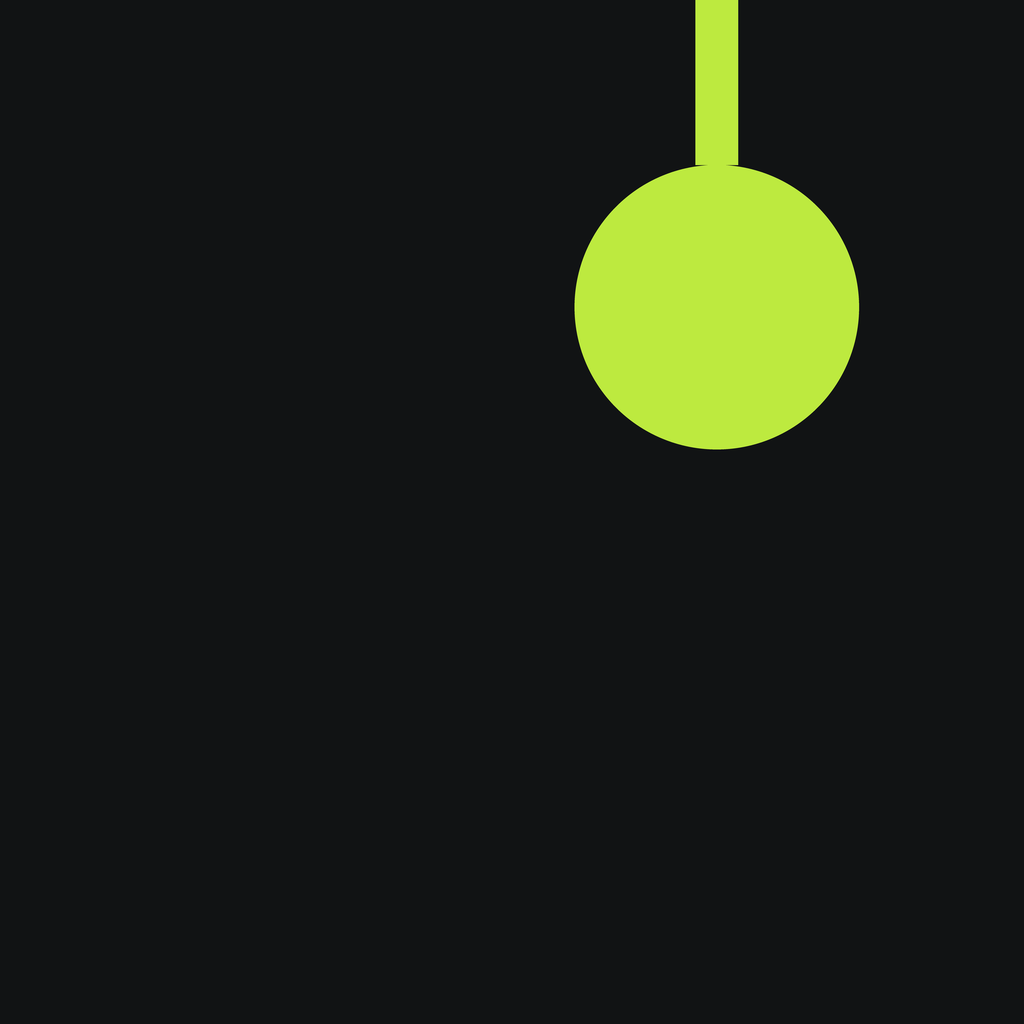
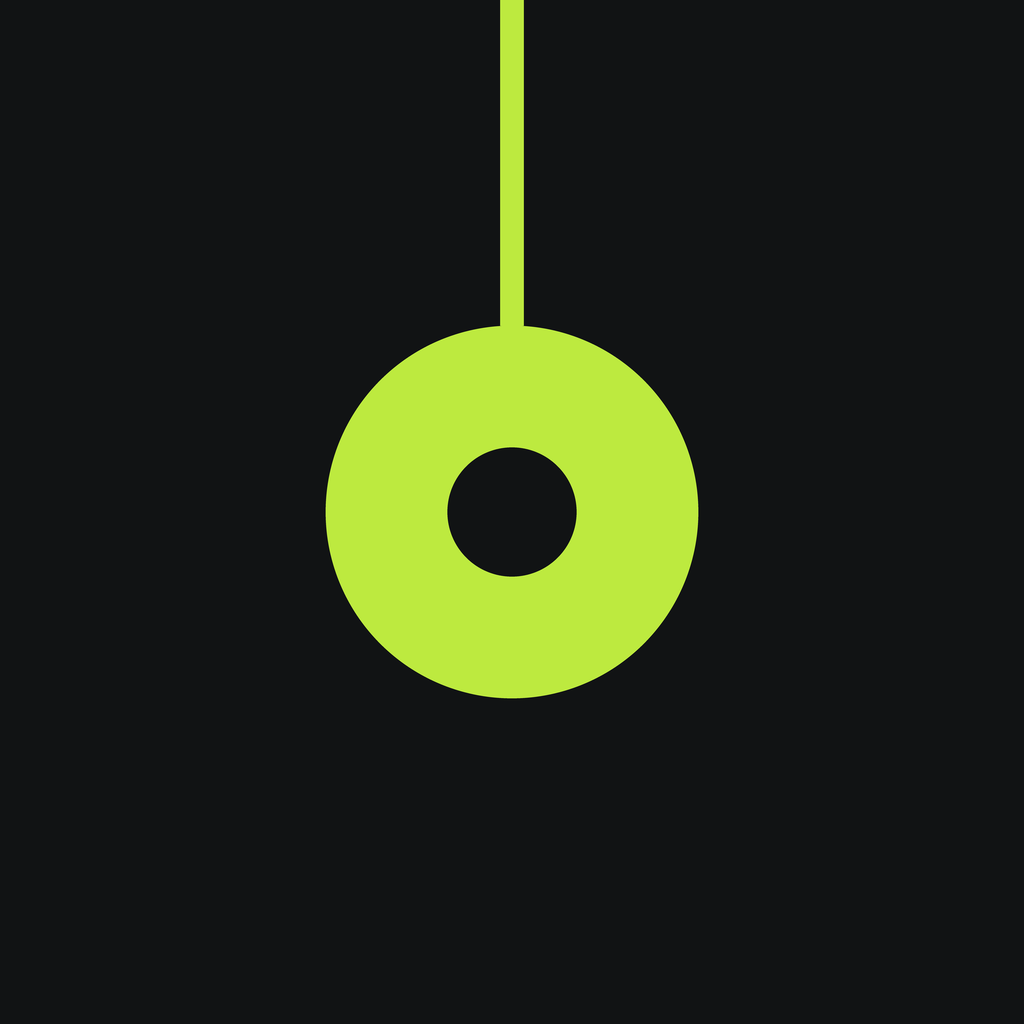
Replace the dot mark with a centered ring (bead on a string)
- App icon and website's .brand-mark now show a lime ring with a hole,
  centered in the box, instead of the off-center solid dot
- Tray icon's punched-hole notch resized/recentered to match the new ring
- Rebuilt all five installers (mac dmg/zip x2 arch, win exe) with the new icon

Changed region(s): [[0.3125, 0.0, 0.8438, 0.6875]]

diff --git a/website/site.css b/website/site.css
@@ -159,17 +159,19 @@ a:focus-visible, button:focus-visible {
   width: 36px;
   height: 36px;
   border-radius: 11px;
-  background: var(--ink) radial-gradient(circle at 70% 30%, var(--lime) 0 5px, transparent 5.5px);
+  /* A ring (a bead with a hole), not a solid dot — the inner ink circle punches the hole back
+     out of the lime ring. */
+  background: var(--ink) radial-gradient(circle at 50% 50%, var(--ink) 0 2.3px, var(--lime) 2.3px 6.5px, transparent 6.5px);
 }
 /* The charm-on-a-string motif at logo scale: a short lime line from the top edge down to the
-   dot's own top edge (30% - 5px), so it never runs under/past the dot itself. */
+   ring's own top edge (50% - 6.5px), so it never runs under/past the ring itself. */
 .brand-mark::before {
   content: '';
   position: absolute;
-  left: 70%;
+  left: 50%;
   top: 0;
-  width: 1.5px;
-  height: calc(30% - 5px);
+  width: 1px;
+  height: calc(50% - 6.5px);
   background: var(--lime);
   transform: translateX(-50%);
 }

diff --git a/website/index.html b/website/index.html
@@ -9,7 +9,7 @@
   <link rel="stylesheet" href="engine/overlay.css" />
   <!-- ?v= is a manual cache-buster: bump it (any change works, e.g. the date) whenever site.css
        changes, so a browser — or host — that cached the old file has to fetch the new one. -->
-  <link rel="stylesheet" href="site.css?v=19" />
+  <link rel="stylesheet" href="site.css?v=20" />
   <script>
     // Runs before first paint (inline, in <head>) so the page never flashes the wrong mode —
     // by the time site.css's [data-mode]/[data-mode-resolved] rules apply, this has already run.

diff --git a/scripts/generate-icons.py b/scripts/generate-icons.py
@@ -2,11 +2,10 @@
 """Regenerate the app's icon assets from the website's own brand mark.
 
 Source of truth is website/site.css's `.brand-mark` rule — a dark rounded
-square with an off-center lime dot hanging from a short lime line at the
-top edge (the charm-on-a-string motif, echoed at logo scale):
+square with a lime ring (a bead on a string) centered in the box:
   border-radius: 11px on a 36px box (~30.56% corner radius)
-  dot centered at 70%/30%, solid radius 5px on a 36px box (~13.89%)
-  line from the top edge down to the dot's own top edge, ~1.5px on 36px
+  ring centered at 50%/50%, outer radius ~18.2%, inner hole ~6.3% of the box
+  line from the top edge down to the ring's own top edge, ~1px on 36px
 Re-run this after changing those ratios or colors so the app icon and the
 website mark never drift apart.
 """
@@ -17,10 +16,11 @@ INK = (0x11, 0x13, 0x14, 255)
 LIME = (0xBD, 0xEA, 0x3F, 255)
 
 CORNER_RATIO = 11 / 36
-DOT_CX_RATIO = 0.70
-DOT_CY_RATIO = 0.30
-DOT_RADIUS_RATIO = 5 / 36
-LINE_WIDTH_RATIO = 1.5 / 36
+RING_CX_RATIO = 0.5
+RING_CY_RATIO = 0.5
+RING_OUTER_RATIO = 0.182
+RING_INNER_RATIO = 0.063
+LINE_WIDTH_RATIO = 0.023
 
 SUPERSAMPLE = 8
 
@@ -35,16 +35,18 @@ def render_mark(size, corner_ratio=CORNER_RATIO):
     else:
         draw.rectangle([0, 0, hi - 1, hi - 1], fill=INK)
 
-    cx = DOT_CX_RATIO * hi
-    cy = DOT_CY_RATIO * hi
-    r = DOT_RADIUS_RATIO * hi
+    cx = RING_CX_RATIO * hi
+    cy = RING_CY_RATIO * hi
+    outer = RING_OUTER_RATIO * hi
+    inner = RING_INNER_RATIO * hi
 
-    # The "string" — only drawn up to the dot's own top edge, never past it,
-    # so there's no seam where a line end might peek out from under the dot.
+    # The "string" — only drawn up to the ring's own top edge, never past it,
+    # so there's no seam where a line end might peek out from under the ring.
     lw = LINE_WIDTH_RATIO * hi
-    draw.rectangle([cx - lw / 2, 0, cx + lw / 2, cy - r + 1], fill=LIME)
+    draw.rectangle([cx - lw / 2, 0, cx + lw / 2, cy - outer + 1], fill=LIME)
 
-    draw.ellipse([cx - r, cy - r, cx + r, cy + r], fill=LIME)
+    draw.ellipse([cx - outer, cy - outer, cx + outer, cy + outer], fill=LIME)
+    draw.ellipse([cx - inner, cy - inner, cx + inner, cy + inner], fill=INK)
 
     return img.resize((size, size), Image.LANCZOS)
 
@@ -55,20 +57,19 @@ def render_tray_template(size):
     # selected-state highlight) rather than the mark's own colors — most of
     # the other icons in the bar follow this, ours stood out by being the
     # only full-color one. Same rounded-square silhouette as the real mark,
-    # but the dot becomes a punched-out transparent notch (negative space)
-    # instead of a lime fill, since a template image only has one color to
-    # work with — that notch is what keeps it recognizably *our* mark rather
-    # than a plain black square like everyone else's.
+    # with a single circular notch (matching the ring's outer radius) cut out
+    # as negative space — the ring's own inner hole is too fine a detail to
+    # survive at 18px, so this keeps just the bigger, legible shape.
     hi = size * SUPERSAMPLE
     mask = Image.new("L", (hi, hi), 0)
     mdraw = ImageDraw.Draw(mask)
     corner = CORNER_RATIO * hi
     mdraw.rounded_rectangle([0, 0, hi - 1, hi - 1], radius=corner, fill=255)
 
-    cx = DOT_CX_RATIO * hi
-    cy = DOT_CY_RATIO * hi
-    r = DOT_RADIUS_RATIO * hi
-    mdraw.ellipse([cx - r, cy - r, cx + r, cy + r], fill=0)
+    cx = RING_CX_RATIO * hi
+    cy = RING_CY_RATIO * hi
+    outer = RING_OUTER_RATIO * hi
+    mdraw.ellipse([cx - outer, cy - outer, cx + outer, cy + outer], fill=0)
 
     mask = mask.resize((size, size), Image.LANCZOS)
     black = Image.new("RGBA", (size, size), (0, 0, 0, 255))
